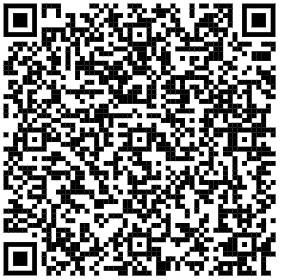
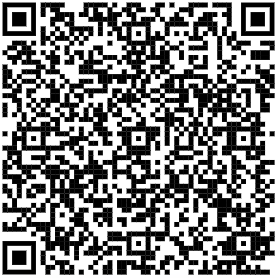
Cambios de margenes en opinion

diff --git a/pdf/style.css b/pdf/style.css
@@ -8,58 +8,57 @@
 }
 
 body {
-   font-family: 'Arial MT', sans-serif;
-   font-size: 12px;
-    margin-top: 2cm;
-    margin-left: 2cm;
-    margin-right: 2cm;
-    margin-bottom: 2cm;
+    font-family: 'Arial MT', sans-serif;
+    font-size: 12px;
+    margin-top: 1cm;
+    margin-left: 1cm;
+    margin-right: 1cm;
+    margin-bottom: 1cm;
 }
 
 header {
     position: fixed;
-    top: 3cm;
-    left: 2cm;
+    top: 1cm;
+    left: 1cm;
 }
 .header-black {
     position: fixed;
-    top: 1.7cm;
-    left: 2cm;
-    right: 1.7cm;
+    top: 1cm;
+    left: 1cm;
+    right: 1cm;
     height: 1.4cm;
     background-color: #323232;
 }
 .header-logo {
     position: fixed;
-    top: 1.9cm;
-    left: 2.2cm;
+    top: 1.2cm;
+    left: 1.5cm;
     width: 2.3cm;
 }
 
 .header-gray {
     position: fixed;
-    top: 3.1cm;
-    left: 2cm;
-    right: 1.7cm;
+    top: 2.4cm;
+    left: 1cm;
+    right: 1cm;
     height: 1.4cm;
     background-color: #E3E3E3;
     border-bottom: 2px solid #D7D7D7;
     border-left: 2px solid #D7D7D7;
     border-right: 2px solid #D7D7D7;
-    text-align: center;
+    text-align-last: center;
     line-height: 1cm;
 }
 .header-title {
-    position: fixed;
-    top: 120px;
-    left: 7.8cm;
+    position: relative;
+    left: 7cm; 
 }
 /** Define the footer rules **/
 footer {
     position: fixed; 
     bottom: 2.3cm; 
-    left: 2cm; 
-    right: 1.8cm;
+    left: 1cm; 
+    right: 1cm;
     height: 5.3cm;
     text-align: center;
     line-height: 1.5cm;
@@ -103,7 +102,7 @@ footer {
     width: 2.3cm;
     height: 2.3cm;
     margin-top: -75px;
-    margin-left: 580px;
+    margin-left: 640px;
 }
 
 .footer-qr img {
@@ -148,7 +147,7 @@ main {
 
 .doc-title {
     margin-top: 0cm;
-    margin-left: 5.2cm;
+    margin-left: 6.2cm;
 }
 
 .table-container {
@@ -190,5 +189,5 @@ main {
     font-size: 10px !important;
     position: fixed;
     bottom: 2cm;
-    right: 2.5cm;
+    right: 1.5cm;
 }

diff --git a/pdf/opinion.php b/pdf/opinion.php
@@ -4,7 +4,7 @@
     include_once('../api/token.php');
 
     if(!isUserLogged() || !isUserActive()) {
-        header('Location: index.php');
+        header('Location: ../index.php');
         exit();
     }
     $host = 'svgt193.serverneubox.com.mx';
@@ -41,7 +41,7 @@
             $nombre = $row["nombre"];
         }
         $today = date("Y/m/d");
-        $cadenaOriginal = '||'.$today.'|'.$rfc.'|CONSTANCIA DE SITUACIÓN FISCAL|200001088888800000031||'; 
+        $cadenaOriginal = '||'.$today.'|'.$rfc.'|'.$folio.'|200001088888800000031||'; 
         $selloDigital = $row["selloDigital"];
         $meses = array("enero","febrero","marzo","abril","mayo","junio","julio","agosto","septiembre","octubre","noviembre","diciembre");
         $mes = $meses[intval(date("m", strtotime($row["fechaRevision"])))-1];
@@ -107,29 +107,31 @@
     <main>
         <div class="doc-title">Opinión del cumplimiento de obligaciones fiscales</div>
         <!-- Folio -->
-        <div class="table-container" style="margin-left: 0cm; margin-top: 0.4cm; height: 1.2cm; width: 8.6cm;">
+        <?php $box_width=9.46 ?>
+        <div class="table-container" style="margin-left: 0cm; margin-top: 0.4cm; height: 1.2cm; width: <?php echo $box_width?>cm;">
             <div class="table-title"><span class="table-title-text">Folio</span></div>
             <div class="table-content">
                 <div class="field" style='margin-left: 5px; margin-top:15px;'><?php echo $folio ?></div>
             </div>
         </div>
         <!-- RFC -->
-        <div class="table-container" style="margin-left: 0.5cm; margin-top: 0.4cm; height: 1.2cm; width: 8.6cm;">
+        <div class="table-container" style="margin-left: 0.5cm; margin-top: 0.4cm; height: 1.2cm; width:<?php echo $box_width?>cm;">
             <div class="table-title"><span class="table-title-text">Clave de R.F.C.</span></div>
             <div class="table-content">
                 <div class="field" style='margin-left: 5px; margin-top:15px;'><?php echo $rfc ?></div>
             </div>
         </div>
+
         <!-- nombre -->
-        <div class="table-container" style="margin-left: -8.7cm; margin-top:2.3cm; height: 1.2cm; width: 17.7cm;">
+        <div class="table-container" style="margin-left: -19.55cm; margin-top:2.3cm; height: 1.2cm; width: 19.5cm;">
             <div class="table-title"><span class="table-title-text">Nombre, Denominación o Razón social</span></div>
                 <div class="table-content">
                     <div class="field" style='margin-left: 5px; margin-top:15px;'><?php echo $nombre ?></div>
                 </div>
             </div>
         </div>
-
-        <div class="table-container" style="margin-left: -17.9cm; margin-top:4.2cm; height: 4.8cm; width: 17.7cm;">
+        <!-- estimado -->
+        <div class="table-container" style="margin-left: -19.55cm; margin-top:4.2cm; height: 4.8cm; width: 19.5cm;">
             <div class="table-title"><span class="table-title-text">Estimado contribuyente</span></div>
                 <div class="table-content">
                         <p>Respuesta de opinión:</p>
@@ -138,39 +140,34 @@
                         <p>Revisión practicada el día <?php echo $fechaRevision ?> horas</p> 
                 </div>
         </div>
-
-        <div class="table-container" style="margin-left: -26.9cm; margin-top:9.7cm; height: 4.3cm; width: 17.7cm;">
+            
+        <!-- notas -->
+        <div class="table-container" style="margin-left: -19.55cm; margin-top:9.7cm; height: 4.3cm; width: 19.5cm;">
             <div class="table-title"><span class="table-title-text">Notas</span></div>
                 <div class="table-content" style="margin-top: 3px;">
                         <p style="text-align: justify;">1.- La opinión del cumplimiento, se genera atendiendo a la situación fiscal del contribuyente en los siguientes sentidos: POSITIVA. - Cuando el
-contribuyente está inscrito y al corriente en el cumplimiento de las obligaciones que se consideran en los numerales 1 a 12 de la regla 2.1.37. de
-la Resolución Miscelánea Fiscal para <?php echo $anio ?>; NEGATIVA. - Cuando el contribuyente no esté al corriente en el cumplimiento de las obligaciones
-que se consideran en los numerales 1 a 12 de la regla 2.1.37. de la Resolución Miscelánea Fiscal para <?php echo $anio ?>; INSCRITO SIN OBLIGACIONES.-
+contribuyente está inscrito y al corriente en el cumplimiento de las obligaciones que se consideran en los numerales 1 a 12 de la regla 2.1.37. de la Resolución Miscelánea Fiscal para <?php echo $anio ?>; NEGATIVA. - Cuando el contribuyente no esté al corriente en el cumplimiento de las obligaciones que se consideran en los numerales 1 a 12 de la regla 2.1.37. de la Resolución Miscelánea Fiscal para <?php echo $anio ?>; INSCRITO SIN OBLIGACIONES.-
 Cuando el contribuyente está inscrito en el RFC pero no tiene obligaciones fiscales.</p>
                         <p>2.- Para estímulos o subsidios, la opinión que se genere indicando que es Inscrito SIN OBLIGACIONES fiscales, se tomará como Positiva
 cuando el monto del subsidio no rebase de 40 UMAS elevado al año, en caso contrario se considera como resultado Negativo.</p>
                         <p>3.- La presente opinión se emite considerando lo establecido en la regla 2.1.37. de la Resolución Miscelánea Fiscal para <?php echo $anio ?>.</p>
                 </div>
         </div>
+        
         <div class="pagina">Página 1 de 2</div>
         <!-- Page brake -->
         <div style="page-break-before: always;"></div>
 
-        <div class="table-container" style="margin-top:3cm; height: 4cm; width: 17.8cm;">
+        <div class="table-container" style="margin-top:3.5cm; height: 4cm; width: 19.5cm;">
             <div class="table-title"><span class="table-title-text">Notas</span></div>
                 <div class="table-content">
-                        <p style="text-align: justify;">4.- Tratándose de estímulos o subsidios, tiene una vigencia de 3 meses contada a partir del día en que se emite según lo establecido en la regla
-2.1.28. y 30 días naturales a partir de su emisión para trámites diferentes al señalado, de acuerdo a la regla 2.1.37. de la Resolución Miscelánea
-Fiscal para <?php echo $anio?>.</p>
-                        <p>5.- La opinión que se genere indicando que es INSCRITO SIN OBLIGACIONES fiscales, se considera Opinión Negativa para efectos de
-contratación de adquisiciones, arrendamientos, servicios u obra pública.</p>
-                        <p>6.- La presente opinión se emite de conformidad con lo establecido en el artículo 32-D del Código Fiscal de la Federación, regla 2.1.37. de la
-Resolución Miscelánea Fiscal para <?php echo $anio?> y no constituye respuesta favorable respecto a contribuyentes que se ubican en los supuestos del
-artículo 69 del Código Fiscal de la Federación..</p>
+                        <p style="text-align: justify;">4.- Tratándose de estímulos o subsidios, tiene una vigencia de 3 meses contada a partir del día en que se emite según lo establecido en la regla 2.1.28. y 30 días naturales a partir de su emisión para trámites diferentes al señalado, de acuerdo a la regla 2.1.37. de la Resolución Miscelánea Fiscal para <?php echo $anio?>.</p>
+                        <p>5.- La opinión que se genere indicando que es INSCRITO SIN OBLIGACIONES fiscales, se considera Opinión Negativa para efectos de contratación de adquisiciones, arrendamientos, servicios u obra pública.</p>
+                        <p>6.- La presente opinión se emite de conformidad con lo establecido en el artículo 32-D del Código Fiscal de la Federación, regla 2.1.37. de la Resolución Miscelánea Fiscal para <?php echo $anio?> y no constituye respuesta favorable respecto a contribuyentes que se ubican en los supuestos del artículo 69 del Código Fiscal de la Federación..</p>
                 </div>
         </div>
 
-        <div class="table-final" style="width: 17.8cm; margin-top:7.8cm;">
+        <div class="table-final" style="width: 19.5cm; margin-top:8.2cm;">
                 <div class="table-content" style="margin-top:10px">
                     <p>Este servicio es gratuito, en el SAT nuestra misión es servirle.</p>
                     <p>Sus datos personales son incorporados y protegidos en los sistemas del SAT, de conformidad con los lineamientos de protección de Datos Personales y con las diversas disposiciones fiscales y legales sobre confidencialidad y protección de datos, a fin de ejercer las facultades conferidas a la autoridad fiscal.</p>
@@ -178,6 +175,7 @@ artículo 69 del Código Fiscal de la Federación..</p>
                 </div>
                 
         </div>
+
         <div class="pagina">Página 2 de 2</div>
     </main>
 </body>

diff --git a/mobile/validadorqr.php b/mobile/validadorqr.php
@@ -50,10 +50,10 @@
         $fechaRevision = isset($row["fechaRevision"]) 
             ? date("d-m-Y", strtotime($row["fechaRevision"])) 
             : date("d-m-Y");
+        $inicioOperaciones = date("d-m-Y", strtotime($row["inicioOperaciones"]));
+        $ultimoCambio = date("d-m-Y", strtotime($row["ultimoCambio"]));
         if ($persona == 'morales') {
             $nombreComercial = $row["nombreComercial"];
-            $inicioOperaciones = date("d-m-Y", strtotime($row["inicioOperaciones"]));
-            $ultimoCambio = date("d-m-Y", strtotime($row["ultimoCambio"]));
         } else {
             $curp = $row['curp'];
             $paterno = $row['paterno'];
